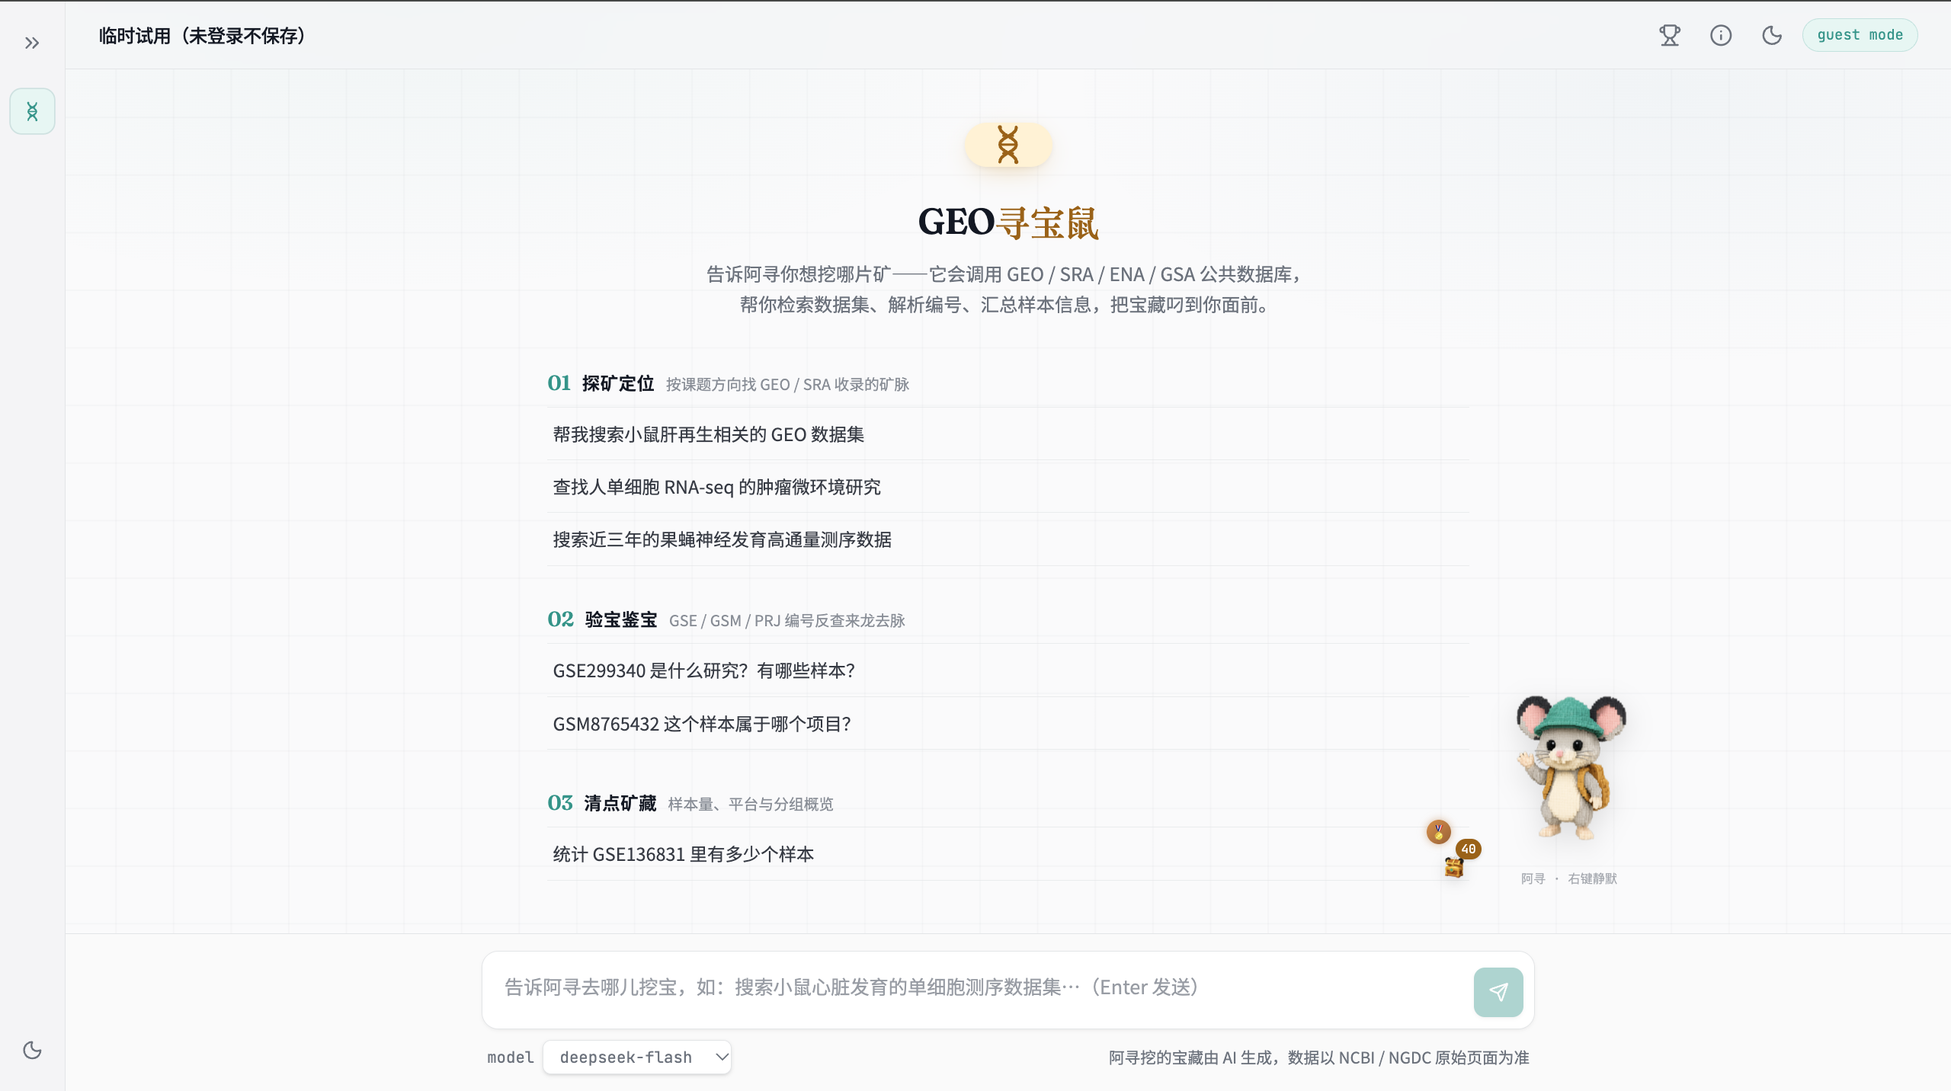
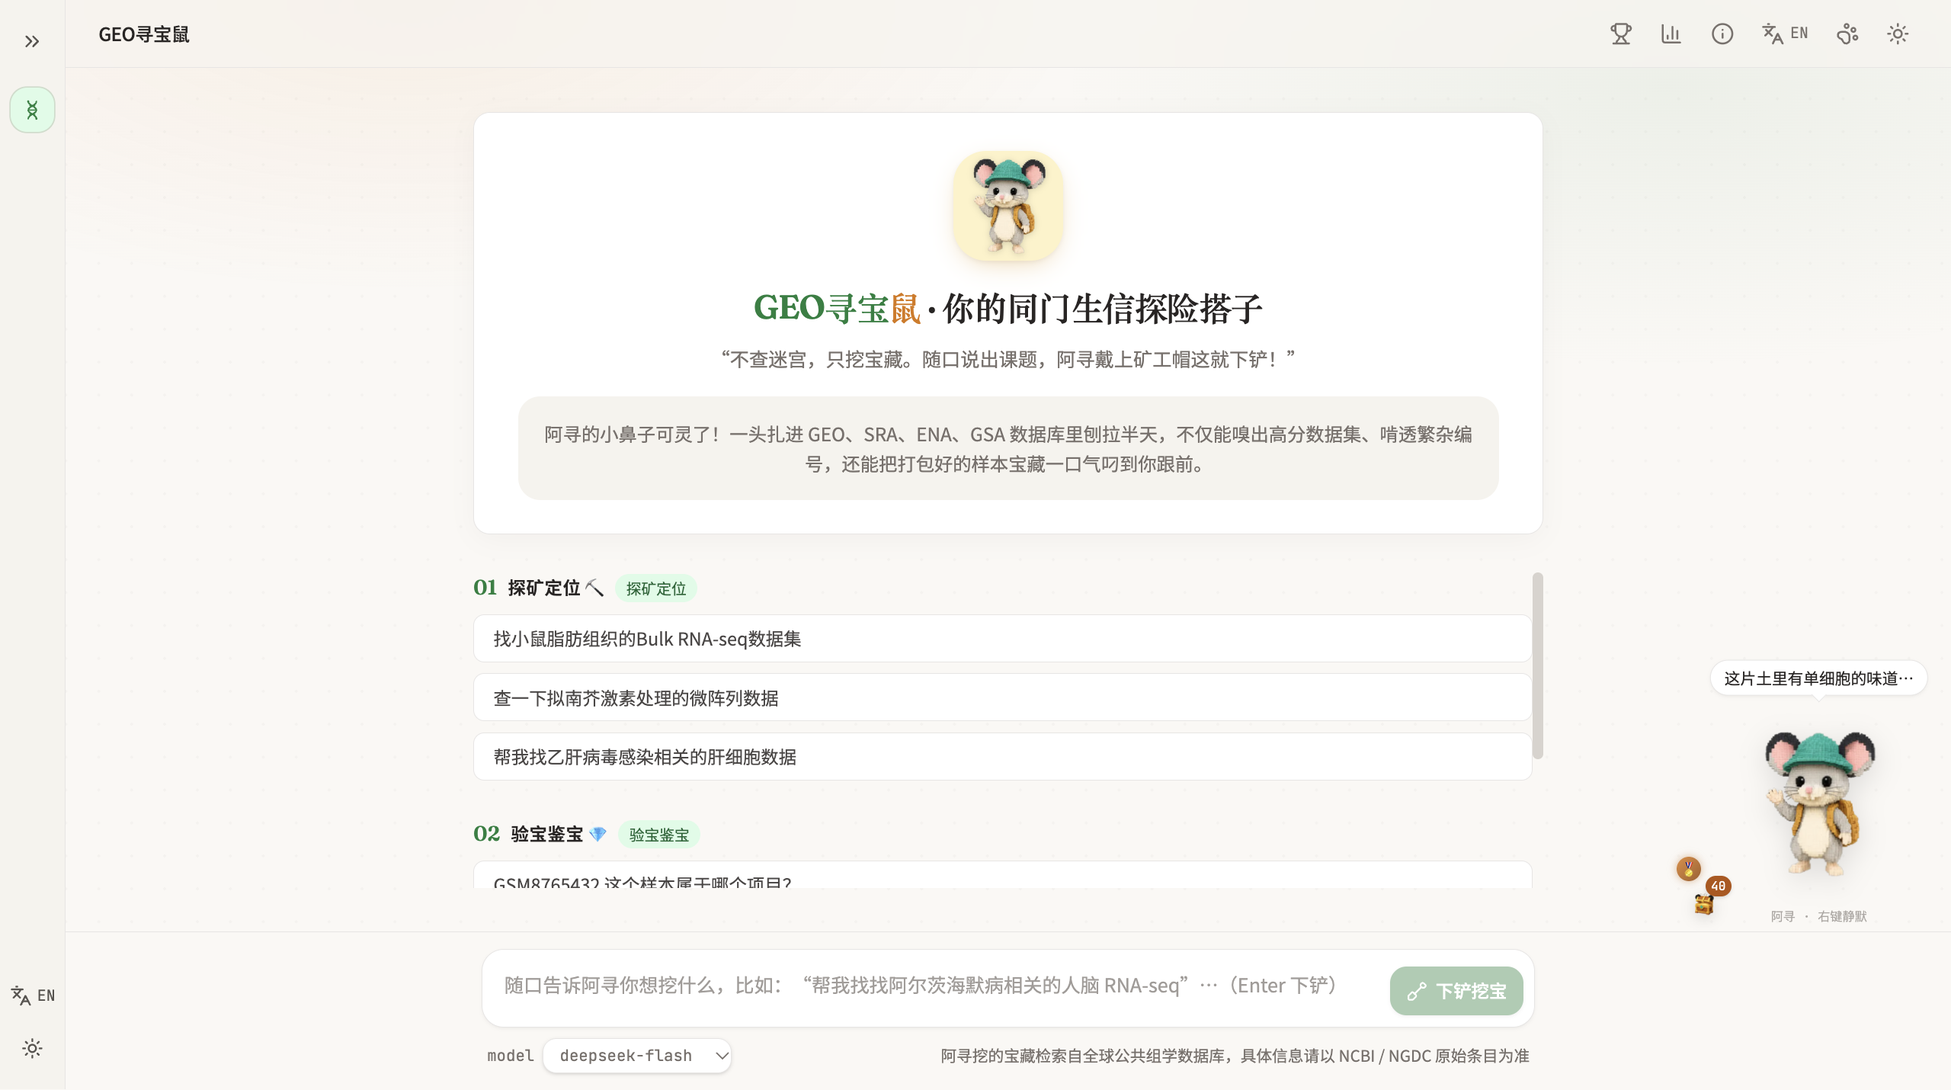
feat(treasure-mouse): 冷启动空态改版（左右排布英雄卡+分组任务牌）+ 鼠鼠我呀连点彩蛋

diff --git a/src/Treasure-Seeking_Mouse/src/components/chat/EmptyState.tsx b/src/Treasure-Seeking_Mouse/src/components/chat/EmptyState.tsx
@@ -1,10 +1,16 @@
-// 新会话空态：寻宝主题引导 + 按意图分组的示例提问（探矿任务牌 Pill 式排版）
+// 新会话空态：寻宝主题引导 + 按意图分组的示例提问
+// 布局参考 docs/2026-10-06_21.23.22.png：左侧头像的英雄卡（右上「休息中」徽章）+ 分组任务牌（编号 + 适合胶囊 + 琥珀点 chips）
 // 每次进入空态从示例池随机抽样展示（useMemo 一次抽定，本次空态内保持稳定不闪动）
 // 示例池按语言分组，切语言时重新抽样（useMemo 依赖 lang）
-import { useMemo } from "react";
+import { useMemo, useRef, useState } from "react";
 import { useI18n } from "@/i18n/provider";
 import { exampleGroups, type ExampleGroup } from "@/i18n";
+import { Dialog, DialogContent, DialogTitle } from "@/components/ui/dialog";
 import mouseBase from "@/assets/pet/mouse-base.webp";
+import mouseWink from "@/assets/pet/mouse-wink.webp";
+
+/** 连点次数窗口：相邻两次点击超过该间隔则重新计数 */
+const EGG_WINDOW_MS = 1500;
 
 /** Fisher-Yates 洗牌后取前 n 条（不改动原数组） */
 function sample<T>(arr: T[], n: number): T[] {
@@ -20,6 +26,13 @@ function sample<T>(arr: T[], n: number): T[] {
 /** 分组序号对应的主题 emoji（与「探矿定位 / 验宝鉴宝 / 清点矿藏」一一对应） */
 const GROUP_EMOJI = ["⛏", "💎", "📜"] as const;
 
+/** 分组「适合」胶囊的配色：探矿定位=浅绿、验宝鉴宝=浅琥珀、清点矿藏=中性灰 */
+const FIT_TINT = [
+  "bg-miner-green-light text-miner-green-hover",
+  "bg-gold-light text-gold-hover",
+  "bg-secondary text-muted-foreground",
+] as const;
+
 export function EmptyState({ onPick }: { onPick: (q: string) => void }): React.ReactElement {
   const { t, lang } = useI18n();
   // 挂载时或语言切换时每组随机抽样一次；本次空态内保持稳定，重新进入会话再换一批
@@ -27,50 +40,85 @@ export function EmptyState({ onPick }: { onPick: (q: string) => void }): React.R
     () => exampleGroups(lang).map((g) => ({ ...g, items: sample(g.items, g.show) })),
     [lang],
   );
+
+  // 彩蛋：连点头像 3 次弹出「鼠鼠我呀」弹窗（与右下角桌宠的连戳彩蛋相互独立）
+  const [eggOpen, setEggOpen] = useState(false);
+  const [bounceKey, setBounceKey] = useState(0);
+  const eggClicksRef = useRef({ count: 0, last: 0 });
+  const handleAvatarClick = (): void => {
+    const now = Date.now();
+    const c = eggClicksRef.current;
+    c.count = now - c.last <= EGG_WINDOW_MS ? c.count + 1 : 1;
+    c.last = now;
+    setBounceKey((k) => k + 1); // 每次点击都回弹一下，给连点节奏反馈
+    if (c.count >= 3) {
+      c.count = 0;
+      setEggOpen(true);
+    }
+  };
   return (
     <div className="flex h-full flex-col items-center justify-center px-4 py-8">
       {/* 英雄区（头像+标语+介绍）固定不动；只有示例任务清单在内部滚动 */}
-      <div className="flex min-h-0 w-full max-w-[780px] flex-col items-center">
-        <div className="hero-card reveal reveal-zoom w-full px-5 pb-6 pt-7 sm:px-8">
-          <div className="flex flex-col items-center">
-            <div className="gold-glow flex h-20 w-20 shrink-0 items-center justify-center overflow-hidden rounded-[24px] bg-pet-gold-soft ring-1 ring-pet-amber/30">
+      <div className="flex min-h-0 w-full max-w-[860px] flex-col items-center">
+        <div className="hero-card reveal reveal-zoom relative w-full px-5 pb-6 pt-7 sm:px-8">
+          {/* 状态徽章：冷启动时阿寻在休息 */}
+          <span className="absolute right-4 top-4 rounded-full border border-pet-amber/40 bg-pet-gold-soft px-2.5 py-0.5 text-[11px] text-pet-amber-deep sm:right-6 sm:top-5">
+            {t("empty.badgeIdle")}
+          </span>
+          <div className="flex flex-col gap-4 sm:flex-row sm:items-center">
+            <button
+              type="button"
+              onClick={handleAvatarClick}
+              title={t("easterEgg.hint")}
+              aria-label={t("easterEgg.hint")}
+              className="gold-glow flex h-20 w-20 shrink-0 cursor-pointer items-center justify-center overflow-hidden rounded-[24px] bg-pet-gold-soft ring-1 ring-pet-amber/30 transition-transform active:scale-95"
+            >
               <img
+                key={bounceKey}
                 src={mouseBase}
                 alt={t("pet.alt")}
                 draggable={false}
-                className="h-full w-full scale-[1.18] object-contain drop-shadow-sm"
+                className="pet-hover-bounce h-full w-full scale-[1.18] object-contain drop-shadow-sm"
               />
+            </button>
+            <div className="min-w-0">
+              <h1 className="reveal font-display text-[22px] font-bold tracking-tight text-foreground sm:text-[24px]" data-reveal-delay="80">
+                {lang === "zh" ? (
+                  <>
+                    <span className="text-miner-green">GEO寻宝</span>
+                    <span className="text-gold">鼠</span>
+                    <span className="text-foreground"> · 你的同门生信探险搭子</span>
+                  </>
+                ) : (
+                  <>
+                    <span className="text-miner-green">GEO Treasure</span>
+                    <span className="text-gold"> Mouse</span>
+                    <span className="text-foreground"> · your lab-mate for bio-discovery</span>
+                  </>
+                )}
+              </h1>
+              <p className="reveal mt-2 text-[14px] leading-relaxed text-muted-foreground" data-reveal-delay="140">
+                {t("empty.subHeadline")}
+              </p>
             </div>
-            <h1 className="reveal font-display mt-4 text-center text-[24px] font-bold tracking-tight text-foreground" data-reveal-delay="80">
-              {lang === "zh" ? (
-                <>
-                  <span className="text-miner-green">GEO寻宝</span>
-                  <span className="text-gold">鼠</span>
-                  <span className="text-foreground"> · 你的同门生信探险搭子</span>
-                </>
-              ) : (
-                <>
-                  <span className="text-miner-green">GEO Treasure</span>
-                  <span className="text-gold"> Mouse</span>
-                  <span className="text-foreground"> · your lab-mate for bio-discovery</span>
-                </>
-              )}
-            </h1>
-            <p className="reveal mt-2 max-w-lg text-center text-[14px] leading-relaxed text-muted-foreground" data-reveal-delay="140">
-              {t("empty.subHeadline")}
-            </p>
-            <p className="reveal mt-4 w-full rounded-xl bg-secondary p-4 text-center text-[13.5px] leading-relaxed text-muted-foreground" data-reveal-delay="200">
-              {t("empty.intro")}
-            </p>
           </div>
+          <p className="reveal mt-5 w-full rounded-xl bg-secondary p-4 text-left text-[13.5px] leading-relaxed text-muted-foreground" data-reveal-delay="200">
+            {t("empty.intro")}
+          </p>
         </div>
 
         {/* 探矿任务看板 */}
         <div className="reveal mt-7 w-full min-h-0 flex-1 space-y-7 overflow-y-auto pb-2" data-reveal-delay="280">
           {picked.map((g, gi) => (
             <section key={g.label}>
-              <GroupHeader label={g.label} caption={g.caption} index={String(gi + 1).padStart(2, "0")} emoji={GROUP_EMOJI[gi] ?? "⛏"} />
-              <ul className="mt-2 flex flex-col gap-2">
+              <GroupHeader
+                label={g.label}
+                fit={t("empty.groupFit", { caption: g.caption })}
+                index={String(gi + 1).padStart(2, "0")}
+                emoji={GROUP_EMOJI[gi] ?? "⛏"}
+                tint={FIT_TINT[gi] ?? FIT_TINT[0]}
+              />
+              <ul className="mt-3 flex flex-wrap gap-2">
                 {g.items.map((q) => (
                   <li key={q}>
                     <ExampleRow q={q} onPick={onPick} />
@@ -81,21 +129,56 @@ export function EmptyState({ onPick }: { onPick: (q: string) => void }): React.R
           ))}
         </div>
       </div>
+
+      {/* 彩蛋弹窗：鼠鼠我呀 */}
+      <Dialog open={eggOpen} onOpenChange={setEggOpen}>
+        <DialogContent className="border-border bg-card text-foreground shadow-soft-lg sm:max-w-[380px]">
+          <div className="flex flex-col items-center px-2 pb-1 pt-2 text-center">
+            <div className="gold-glow flex h-24 w-24 items-center justify-center overflow-hidden rounded-[28px] bg-pet-gold-soft ring-1 ring-pet-amber/30">
+              <img
+                src={mouseWink}
+                alt={t("pet.alt")}
+                draggable={false}
+                className="pet-reveal h-full w-full scale-[1.18] object-contain drop-shadow-sm"
+              />
+            </div>
+            <DialogTitle className="font-display mt-4 text-[20px] font-bold tracking-tight">
+              {lang === "zh" ? (
+                <>
+                  <span className="text-miner-green">鼠鼠</span>
+                  <span className="text-gold">我呀</span>
+                </>
+              ) : (
+                t("easterEgg.title")
+              )}
+            </DialogTitle>
+            <p className="mt-2 text-[13px] leading-relaxed text-muted-foreground">{t("easterEgg.body")}</p>
+            <button
+              type="button"
+              onClick={() => setEggOpen(false)}
+              className="mt-5 h-10 w-full rounded-lg bg-helix text-[14px] font-medium text-primary-foreground transition-colors hover:bg-miner-green-hover active:scale-[0.98]"
+            >
+              {t("easterEgg.close")}
+            </button>
+          </div>
+        </DialogContent>
+      </Dialog>
     </div>
   );
 }
 
-function GroupHeader({ label, caption, index, emoji }: { label: string; caption: string; index: string; emoji: string }): React.ReactElement {
+function GroupHeader({ label, fit, index, emoji, tint }: { label: string; fit: string; index: string; emoji: string; tint: string }): React.ReactElement {
   return (
-    <div className="flex flex-wrap items-baseline gap-2">
-      <span className="font-display text-[15px] font-semibold text-miner-green">{index}</span>
+    <div className="flex flex-wrap items-center gap-2">
+      {/* 编号牌 */}
+      <span className="rounded-md border border-border bg-card px-1.5 py-0.5 font-mono text-[11px] font-semibold text-miner-green">
+        {index}
+      </span>
       <span className="text-[13px] font-semibold tracking-wide text-foreground">
         {label} <span aria-hidden>{emoji}</span>
       </span>
-      {/* 胶囊小标签：探矿定位=浅绿、验宝鉴宝/清点矿藏=浅琥珀 */}
-      <span className="rounded-full bg-miner-green-light px-2 py-0.5 text-[11px] text-miner-green-hover">
-        {label}
-      </span>
+      {/* 胶囊小标签：说明这一组适合什么时候用 */}
+      <span className={`rounded-full px-2 py-0.5 text-[11px] ${tint}`}>{fit}</span>
     </div>
   );
 }
@@ -105,9 +188,10 @@ function ExampleRow({ q, onPick }: { q: string; onPick: (q: string) => void }): 
     <button
       type="button"
       onClick={() => onPick(q)}
-      className="quest-pill group flex w-full items-center gap-2 text-left"
+      className="quest-pill group flex w-fit items-center gap-2 text-left"
     >
-      <span className="min-w-0 flex-1 text-[13px] leading-snug text-foreground/85 transition-colors group-hover:text-gold-hover">
+      <span className="h-1.5 w-1.5 shrink-0 rounded-[2px] bg-gold" aria-hidden />
+      <span className="min-w-0 text-[13px] leading-snug text-foreground/85 transition-colors group-hover:text-gold-hover">
         {q}
       </span>
       <span className="shrink-0 font-mono text-[11px] text-muted-foreground opacity-0 transition-opacity group-hover:opacity-100">

diff --git a/src/Treasure-Seeking_Mouse/src/i18n/index.ts b/src/Treasure-Seeking_Mouse/src/i18n/index.ts
@@ -210,7 +210,7 @@ const EXAMPLE_GROUPS: Record<Lang, ExampleGroup[]> = {
   zh: [
     {
       label: "探矿定位",
-      caption: "按课题方向找 GEO / SRA 收录的矿脉",
+      caption: "只有一个课题设想时",
       show: 3,
       items: [
         "帮我搜索小鼠肝再生相关的 GEO 数据集",
@@ -229,7 +229,7 @@ const EXAMPLE_GROUPS: Record<Lang, ExampleGroup[]> = {
     },
     {
       label: "验宝鉴宝",
-      caption: "GSE / GSM / PRJ 编号反查来龙去脉",
+      caption: "手里只有一串编号时",
       show: 2,
       items: [
         "GSE299340 是什么研究？有哪些样本？",
@@ -242,7 +242,7 @@ const EXAMPLE_GROUPS: Record<Lang, ExampleGroup[]> = {
     },
     {
       label: "清点矿藏",
-      caption: "样本量、平台与分组概览",
+      caption: "摸底样本量与平台分布",
       show: 1,
       items: [
         "统计 GSE136831 里有多少个样本",
@@ -257,7 +257,7 @@ const EXAMPLE_GROUPS: Record<Lang, ExampleGroup[]> = {
   en: [
     {
       label: "Locate the lode",
-      caption: "Find GEO / SRA deposits by research topic",
+      caption: "you only have a research idea",
       show: 3,
       items: [
         "Search GEO datasets related to mouse liver regeneration",
@@ -276,7 +276,7 @@ const EXAMPLE_GROUPS: Record<Lang, ExampleGroup[]> = {
     },
     {
       label: "Assay the find",
-      caption: "Trace GSE / GSM / PRJ accessions back to their source",
+      caption: "you only have a string of accessions",
       show: 2,
       items: [
         "What study is GSE299340? What samples does it have?",
@@ -289,7 +289,7 @@ const EXAMPLE_GROUPS: Record<Lang, ExampleGroup[]> = {
     },
     {
       label: "Count the cache",
-      caption: "Sample counts, platforms and group overview",
+      caption: "surveying sample sizes & platforms",
       show: 1,
       items: [
         "How many samples are in GSE136831?",

diff --git a/src/Treasure-Seeking_Mouse/src/i18n/locales/en.ts b/src/Treasure-Seeking_Mouse/src/i18n/locales/en.ts
@@ -49,6 +49,14 @@ export const en = {
   "empty.intro":
     "Muse's little nose is razor-sharp! It dives into GEO, SRA, ENA and GSA, sniffs out high-impact datasets, chews through cryptic accessions, and drops a bundle of sample treasures right at your feet.",
   "empty.groupFit": "For: {caption}",
+  "empty.badgeIdle": "Resting",
+
+  // ---- Empty-state easter egg ----
+  "easterEgg.hint": "Poke Muse",
+  "easterEgg.title": "Just a lil' mouse",
+  "easterEgg.body":
+    "Oops, you poked me out! This lil' mouse digs through GEO / SRA / ENA / GSA for you all day, then stacks up treasures in its burrow all night — come play with Muse often, okay? 🧀",
+  "easterEgg.close": "Got it — back to digging!",
 
   // ---- Composer ----
   "composer.placeholder":

diff --git a/src/Treasure-Seeking_Mouse/src/i18n/locales/zh.ts b/src/Treasure-Seeking_Mouse/src/i18n/locales/zh.ts
@@ -47,6 +47,14 @@ export const zh = {
   "empty.intro":
     "阿寻的小鼻子可灵了！一头扎进 GEO、SRA、ENA、GSA 数据库里刨拉半天，不仅能嗅出高分数据集、啃透繁杂编号，还能把打包好的样本宝藏一口气叼到你跟前。",
   "empty.groupFit": "适合：{caption}",
+  "empty.badgeIdle": "休息中",
+
+  // ---- 空态彩蛋 ----
+  "easterEgg.hint": "戳戳阿寻",
+  "easterEgg.title": "Just a lil' mouse",
+  "easterEgg.body":
+    "哎呀，被你戳出来啦！鼠鼠我呀，白天在 GEO / SRA / ENA / GSA 里帮你刨数据，夜里还要回洞把宝藏码整齐——记得常来找阿寻玩哦！🧀",
+  "easterEgg.close": "知道啦，去挖宝！",
 
   // ---- 输入区 ----
   "composer.placeholder":

diff --git a/src/Treasure-Seeking_Mouse/docs/ARC/frontend-style-spec.md b/src/Treasure-Seeking_Mouse/docs/ARC/frontend-style-spec.md
@@ -54,19 +54,28 @@
 
 ## 4. 页面区块规范
 
-### 4.1 空态 Hero（`EmptyState.tsx`）
+### 4.1 空态 Hero（`EmptyState.tsx`，布局基准 `docs/2026-10-06_21.23.22.png`）
 
-- 圆润卡片容器，居中，最大宽度 780px；内嵌阿寻形象 + 主/副标语。
-- **主标语**：`GEO 寻宝鼠 · 你的同门生信探险搭子`——「GEO寻宝」用矿工绿、「鼠/矿脉元素」用琥珀金（`text-helix` / `text-pet-amber-deep` 点染，不整体染色）。
-- **副标语**：`"不查迷宫，只挖宝藏。随口说出课题，阿寻戴上矿工帽这就下铲！"`（`text-muted-foreground`）。
-- 介绍文案放 `--secondary` 浅米底框，圆角 `--radius`。
+- 圆润卡片容器（`.hero-card`），居中，最大宽度 **860px**；整体 **左右排布**，不是居中对齐。
+- **第一行（横排）**：左侧阿寻头像方块（`h-20 w-20`、`rounded-[24px]`、`bg-pet-gold-soft` + `gold-glow` + `ring-1 ring-pet-amber/30`，图 `mouse-base.webp`）；右侧文字块左对齐——主标语在上、副标语在下。
+- **主标语**：`GEO 寻宝鼠 · 你的同门生信探险搭子`——「GEO寻宝」用矿工绿、「鼠」用琥珀金（`text-miner-green` / `text-gold` 点染，不整体染色），`font-display` 22-24px。
+- **副标语**：`"不查迷宫，只挖宝藏。随口说出课题，阿寻戴上矿工帽这就下铲！"`（`text-muted-foreground` 14px）。
+- **状态徽章**：卡片**右上角绝对定位**「休息中」胶囊（`absolute right-4 top-4`）——`rounded-full border-pet-amber/40 bg-pet-gold-soft text-pet-amber-deep` 11px（i18n 键 `empty.badgeIdle`）。
+- **介绍文案**：头像行下方**通栏** `--secondary` 浅米底框（`rounded-xl p-4`），**左对齐** 13.5px。
+- 移动端（<sm）头像与文字改纵向堆叠。
+- **彩蛋**：头像可点击，1.5s 内连点 3 次弹出「鼠鼠我呀」弹窗（`mouse-wink.webp` + `pet-reveal` 入场，平台 Dialog 规范，`easterEgg.*` i18n 键）；每次点击头像回弹（`pet-hover-bounce`，key 重触发）。与右下角桌宠的连戳转圈彩蛋相互独立。
 
 ### 4.2 探矿任务牌（示例提问）
 
-- 分组标题编号制：`01 探矿定位 ⛏` / `02 验宝鉴宝 💎` / `03 清点矿藏 📜`，配「适合：…」场景胶囊（浅绿/浅金底小字）。
-- 每个示例问题是独立 pill 微卡片：白/浅米底、1px `border-border`、`px-3.5 py-2`、圆角 8px。
-- **hover 三联动**：`translateY(-2px)` 上浮 + 边框变琥珀金 + 背景微过渡 `--gold-light`，cursor pointer。
+- **分组标题三件套**（`flex flex-wrap items-center gap-2`）：
+  1. **编号牌**：`01` / `02` / `03` 边框小方牌（`rounded-md border border-border bg-card`，`font-mono` 11px 矿工绿）；
+  2. **组名 + emoji**：`探矿定位 ⛏` / `验宝鉴宝 💎` / `清点矿藏 📜`（13px 加粗）；
+  3. **「适合：…」场景胶囊**：`rounded-full px-2 py-0.5` 11px，文案来自 `empty.groupFit` + `exampleGroups(lang).caption`（`src/i18n/index.ts`），**按组分色**：01 浅绿（`bg-miner-green-light text-miner-green-hover`）/ 02 浅金（`bg-gold-light text-gold-hover`）/ 03 中性（`bg-secondary text-muted-foreground`）。
+- **示例 chips**：`flex flex-wrap gap-2` 自然宽度横排（`w-fit`，不拉满整行），每条 chip 前置 **琥珀小方点**（`h-1.5 w-1.5 rounded-[2px] bg-gold`）。
+- 每个示例问题是独立 pill 微卡片（`.quest-pill`）：白底、1px `border-border`、`px-3.5 py-2`、圆角 8px。
+- **hover 三联动**：`translateY(-2px)` 上浮 + 边框变琥珀金 + 背景微过渡 `--gold-light`，cursor pointer；右侧浮现 ⛏ 提示。
 - 点击 = 填入输入框并直接发送（`onPick` → `handleSend`）。
+- 示例池每次进入空态**每组随机抽样**（Fisher-Yates，条数 = `show`），本次空态内保持稳定，切语言重新抽样。
 
 ### 4.3 对话区
 
@@ -149,7 +158,7 @@
 |---|---|
 | `src/styles.css` | 全部 token、keyframes、暗色覆盖的权威实现 |
 | `docs/style_prompt.md` | 视觉重构任务指令（本规范的源头） |
-| `src/components/chat/EmptyState.tsx` / `Composer.tsx` / `SessionSidebar.tsx` | Hero / 输入区 / 侧栏的落地参考 |
+| `src/components/chat/EmptyState.tsx` / `Composer.tsx` / `SessionSidebar.tsx` | 冷启动空态（布局基准 `docs/2026-10-06_21.23.22.png`）/ 输入区 / 侧栏的落地参考 |
 | `src/components/pet/TreasureMouse.tsx` / `PetSettingsPanel.tsx` | 桌宠状态机与设置面板参考 |
 | `src/lib/reveal-engine.ts` / `petBus.ts` / `hintBus.ts` | 动效门控与跨层通信契约 |
 | `src/i18n/locales/{zh,en}.ts` | 全部界面文案（术语口径以此为准） |
